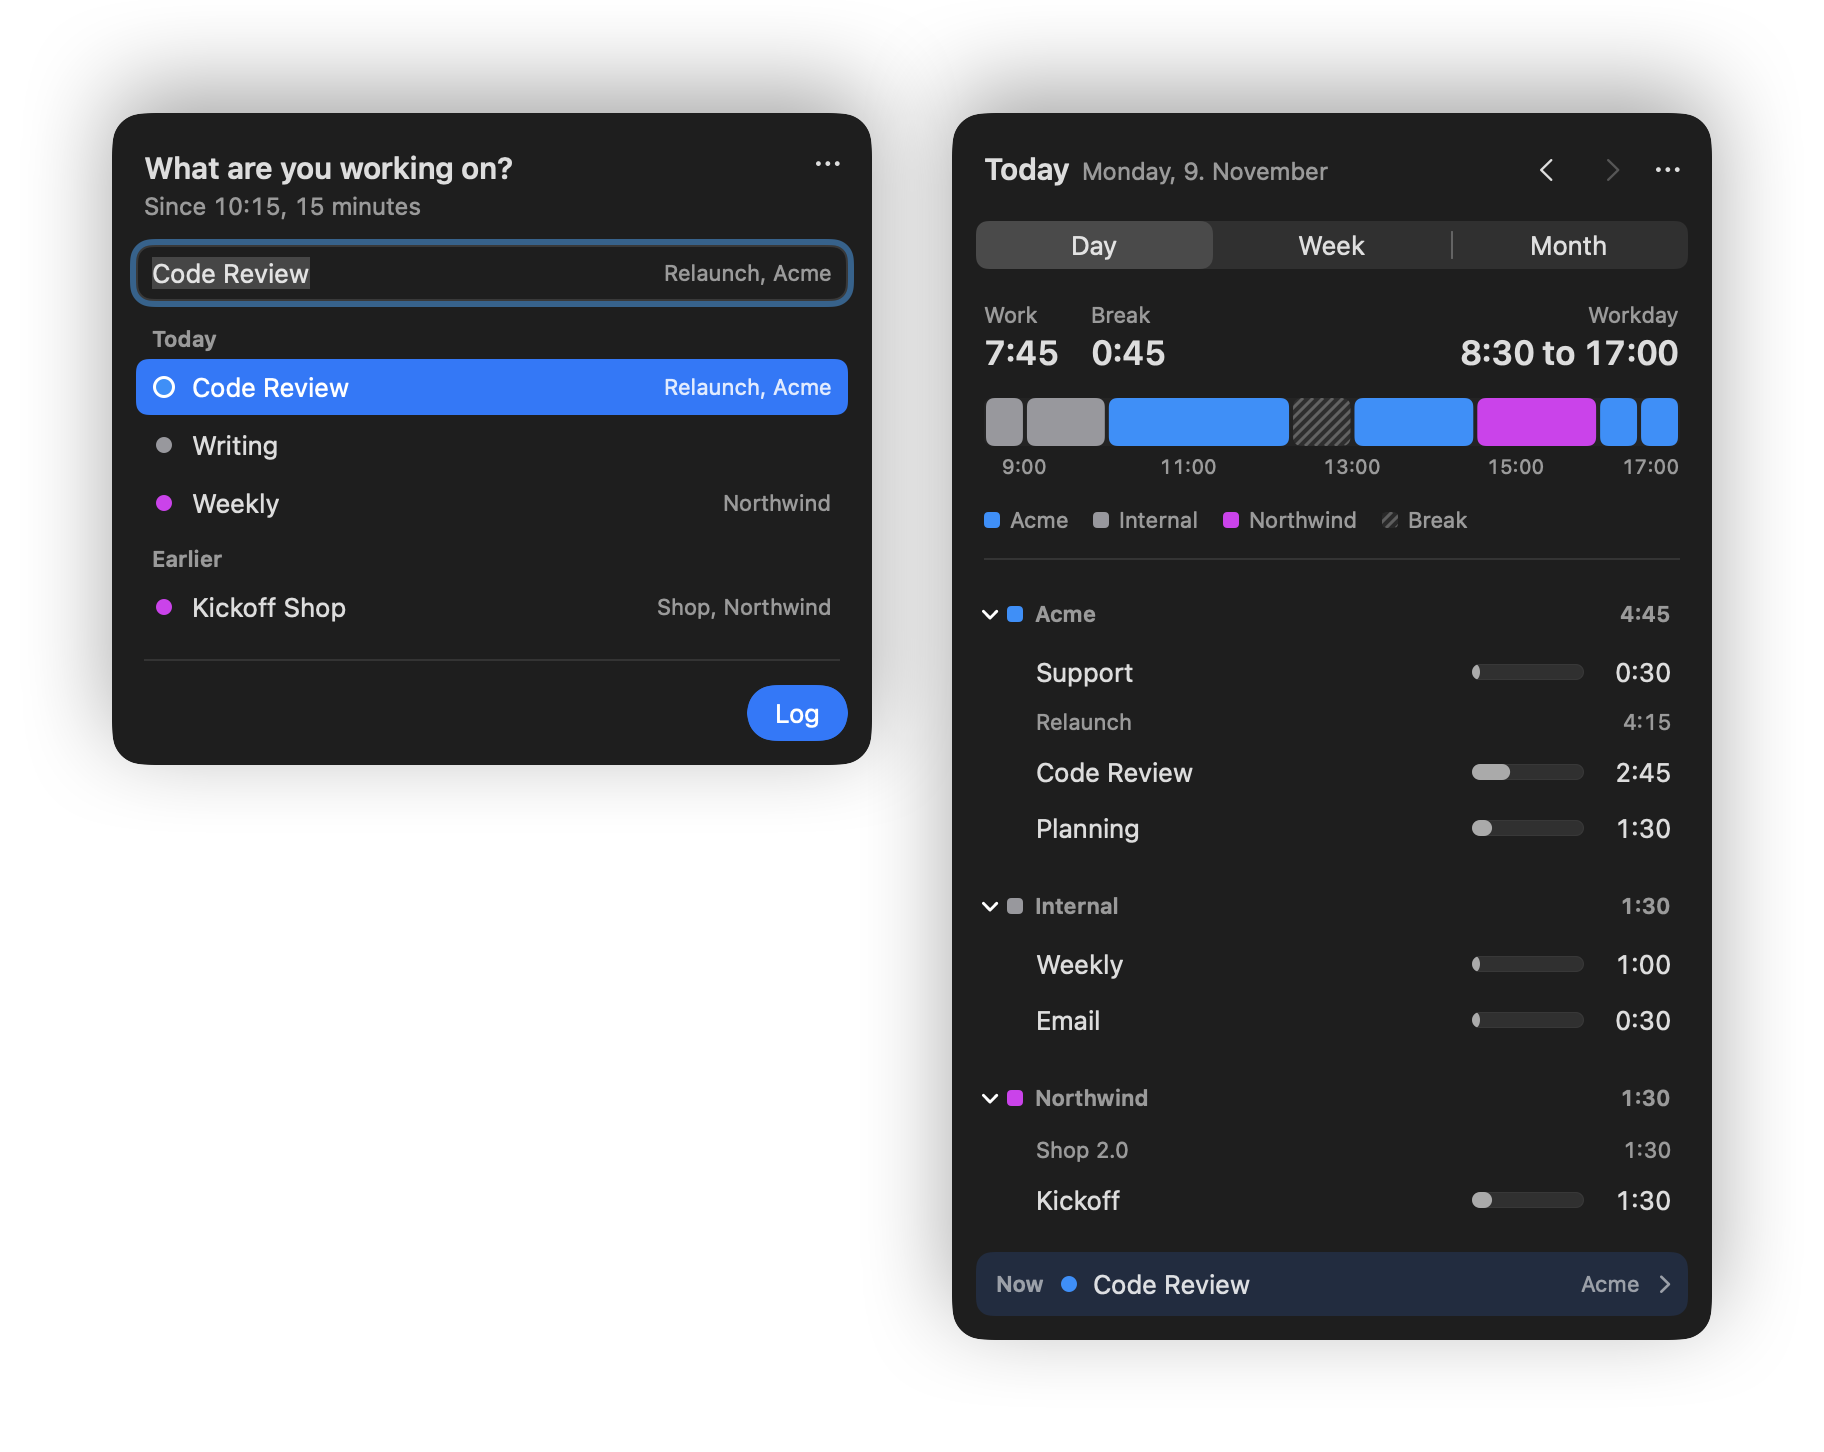
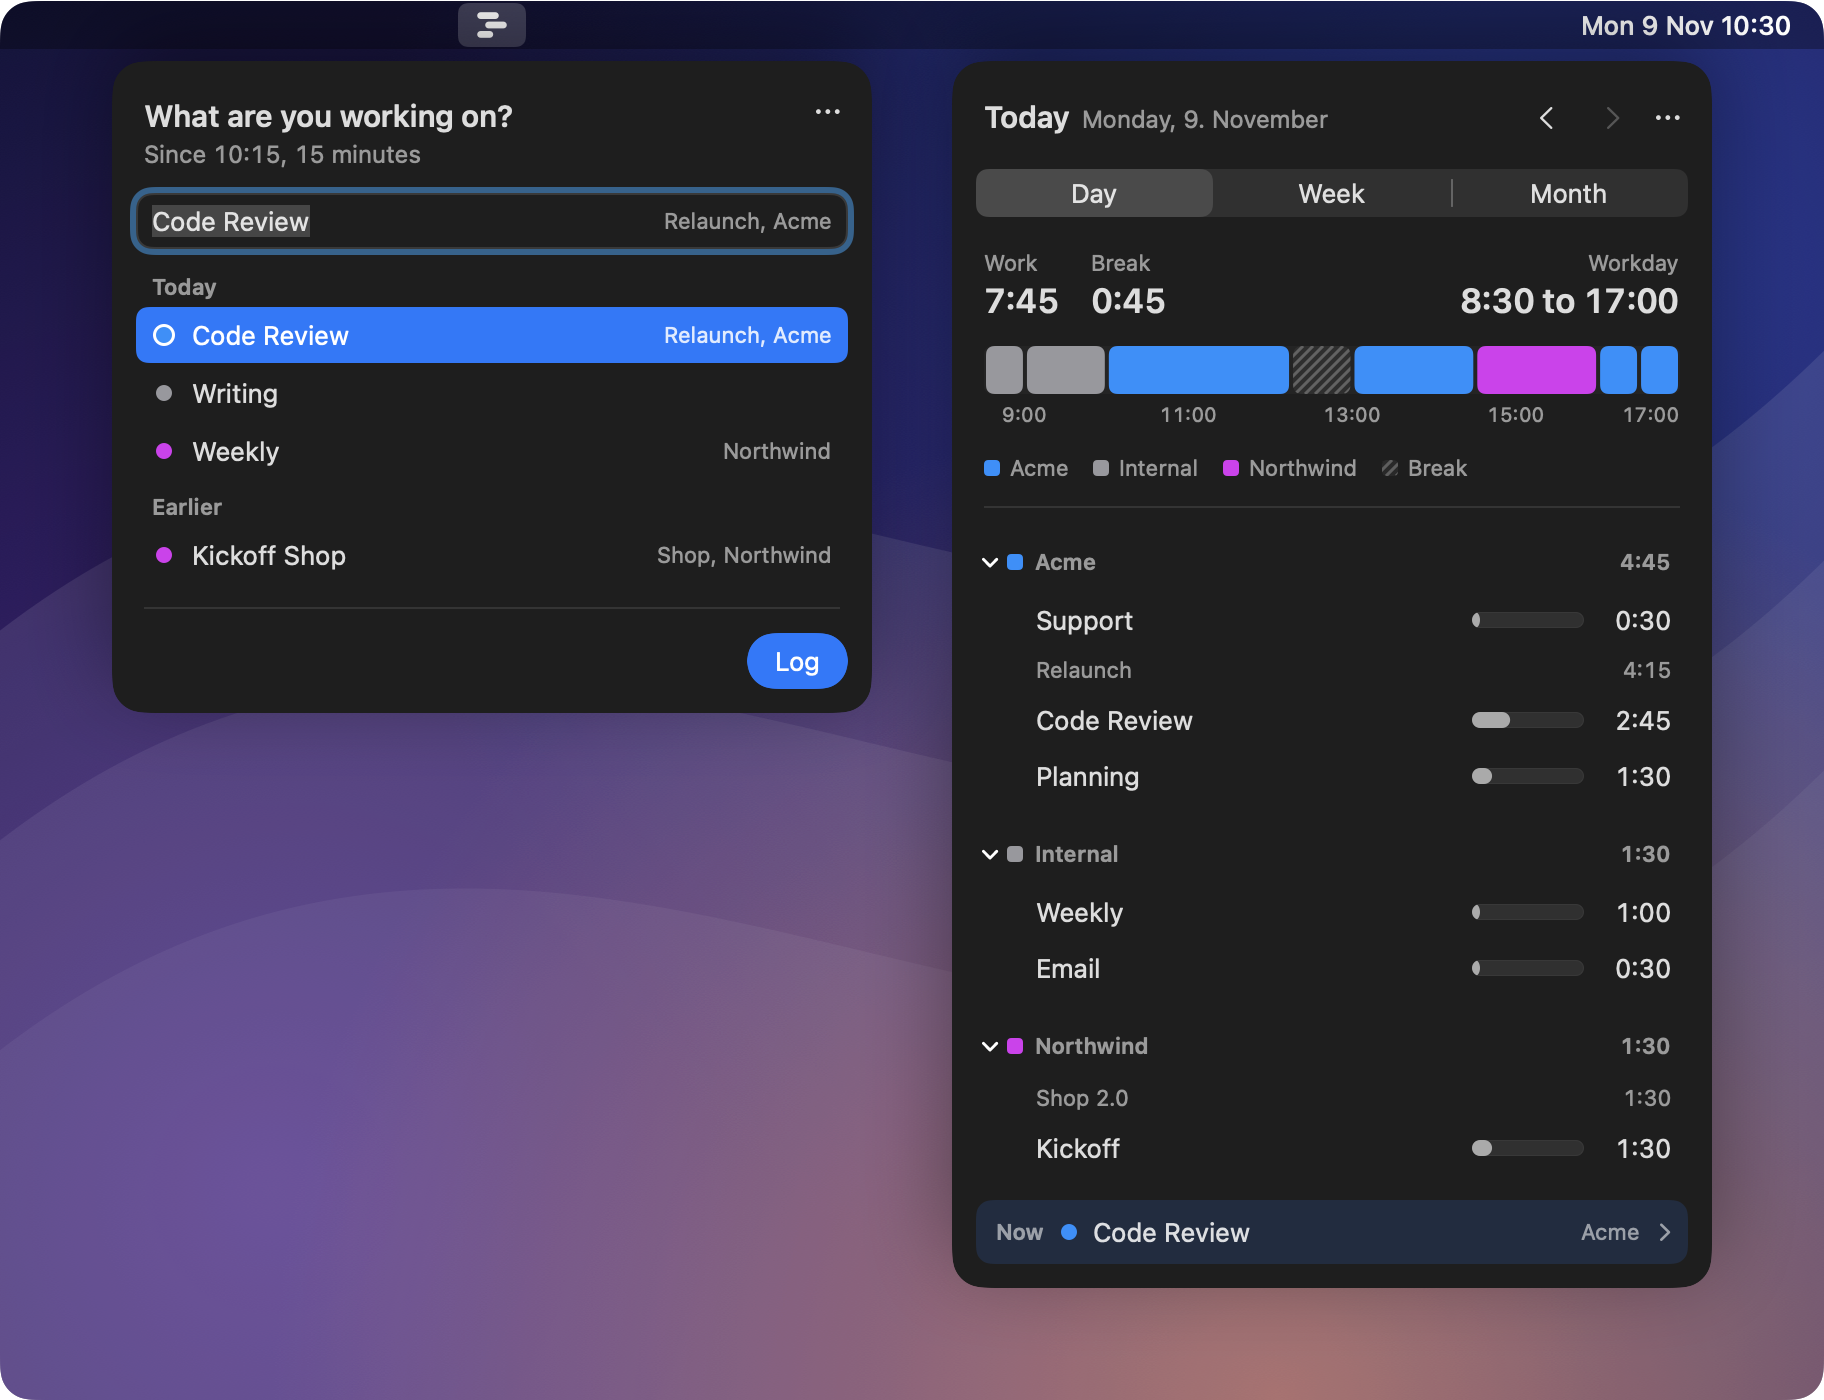
docs: show the readme images on a drawn desktop with a menu bar

diff --git a/Sources/Maloche/Screenshots.swift b/Sources/Maloche/Screenshots.swift
@@ -32,26 +32,18 @@
             try renderReadme(from: screens, to: directory.appending(path: "readme", directoryHint: .isDirectory))
         }
 
-        /// The app icon at 128 pt, the check-in beside the day and the week beside the month, dark, as panels with a
-        /// shadow on a transparent background.
+        /// The app icon at 128 pt, the check-in beside the day and the week beside the month, dark, on a desktop with
+        /// a menu bar, the left panel under the maloche item.
         static func renderReadme(from screens: [(name: String, view: AnyView)], to directory: URL) throws {
             try FileManager.default.createDirectory(at: directory, withIntermediateDirectories: true)
             let dark = NSAppearance(named: .darkAqua)!
-            func showcase(_ names: [String]) -> AnyView {
-                let panels = names.compactMap { name in screens.first { $0.name == name }?.view }
-                return AnyView(
-                    HStack(alignment: .top, spacing: 40) {
-                        ForEach(panels.indices, id: \.self) { index in
-                            panels[index].panel().shadow(color: .black.opacity(0.35), radius: 24, y: 12)
-                        }
-                    }
-                    .padding(56))
-            }
-            for (name, panels) in [
-                ("hero", ["checkin", "dashboard-day"]), ("periods", ["dashboard-week", "dashboard-month"]),
+            for (name, panels, clock) in [
+                ("hero", ["checkin", "dashboard-day"], "Mon 9 Nov 10:30"),
+                ("periods", ["dashboard-week", "dashboard-month"], "Tue 10 Nov 12:00"),
             ] {
+                let views = panels.compactMap { name in screens.first { $0.name == name }?.view }
                 try write(
-                    image(of: showcase(panels), appearance: dark, panel: false),
+                    image(of: AnyView(Desktop(panels: views, clock: clock)), appearance: dark, panel: false),
                     to: directory.appending(path: "\(name).png"))
             }
             let icon = try bitmap(pixels: 256)
@@ -423,6 +415,95 @@
             }
             hosting.cacheDisplay(in: hosting.bounds, to: rep)
             return rep
+        }
+    }
+
+    /// A desktop cut-out for the README: a drawn wallpaper, a menu bar with the maloche item open and a clock, the
+    /// first panel hanging below the item and the others beside it.
+    private struct Desktop: View {
+        let panels: [AnyView]
+        let clock: String
+
+        private static let menuBarHeight: CGFloat = 24
+
+        var body: some View {
+            HStack(alignment: .top, spacing: 40) {
+                ForEach(panels.indices, id: \.self) { index in
+                    VStack(spacing: 6) {
+                        Group {
+                            if index == 0 {
+                                Image(nsImage: MenuBarIcon.image(for: .tracking))
+                                    .renderingMode(.template)
+                                    .foregroundStyle(.white)
+                                    .padding(.horizontal, 8)
+                                    .frame(height: Self.menuBarHeight - 2)
+                                    .background(.white.opacity(0.2), in: .rect(cornerRadius: 5))
+                            } else {
+                                Color.clear
+                            }
+                        }
+                        .frame(height: Self.menuBarHeight)
+                        panels[index].panel().shadow(color: .black.opacity(0.4), radius: 24, y: 12)
+                    }
+                }
+            }
+            .padding([.horizontal, .bottom], 56)
+            .background(alignment: .top) {
+                HStack {
+                    Spacer()
+                    Text(verbatim: clock)
+                        .font(.system(size: 13, weight: .medium))
+                        .foregroundStyle(.white)
+                }
+                .padding(.horizontal, 16)
+                .frame(height: Self.menuBarHeight)
+                .background(.black.opacity(0.3))
+            }
+            .background { Wallpaper() }
+            .clipShape(.rect(cornerRadius: 16))
+            .environment(\.colorScheme, .dark)
+        }
+    }
+
+    /// Soft night-blue, violet and orange light in the manner of a macOS wallpaper, drawn rather than loaded.
+    private struct Wallpaper: View {
+        var body: some View {
+            Canvas { context, size in
+                let full = CGRect(origin: .zero, size: size)
+                context.fill(
+                    Path(full),
+                    with: .linearGradient(
+                        Gradient(colors: [
+                            Color(red: 0.05, green: 0.07, blue: 0.20), Color(red: 0.16, green: 0.08, blue: 0.30),
+                        ]),
+                        startPoint: .zero, endPoint: CGPoint(x: size.width, y: size.height)))
+                for (x, y, radius, color) in [
+                    (0.15, 0.85, 0.75, Color(red: 0.45, green: 0.20, blue: 0.75)),
+                    (0.85, 0.20, 0.65, Color(red: 0.15, green: 0.35, blue: 0.85)),
+                    (0.70, 1.00, 0.55, Color(red: 0.95, green: 0.45, blue: 0.20)),
+                ] {
+                    let center = CGPoint(x: size.width * x, y: size.height * y)
+                    let reach = max(size.width, size.height) * radius
+                    context.fill(
+                        Path(full),
+                        with: .radialGradient(
+                            Gradient(colors: [color.opacity(0.55), color.opacity(0)]), center: center, startRadius: 0,
+                            endRadius: reach))
+                }
+                for (index, opacity) in [0.10, 0.07, 0.05].enumerated() {
+                    let base = size.height * (0.45 + 0.15 * Double(index))
+                    var wave = Path()
+                    wave.move(to: CGPoint(x: 0, y: base))
+                    wave.addCurve(
+                        to: CGPoint(x: size.width, y: base - size.height * 0.2),
+                        control1: CGPoint(x: size.width * 0.35, y: base - size.height * 0.35),
+                        control2: CGPoint(x: size.width * 0.65, y: base + size.height * 0.25))
+                    wave.addLine(to: CGPoint(x: size.width, y: size.height))
+                    wave.addLine(to: CGPoint(x: 0, y: size.height))
+                    wave.closeSubpath()
+                    context.fill(wave, with: .color(.white.opacity(opacity)))
+                }
+            }
         }
     }
 
